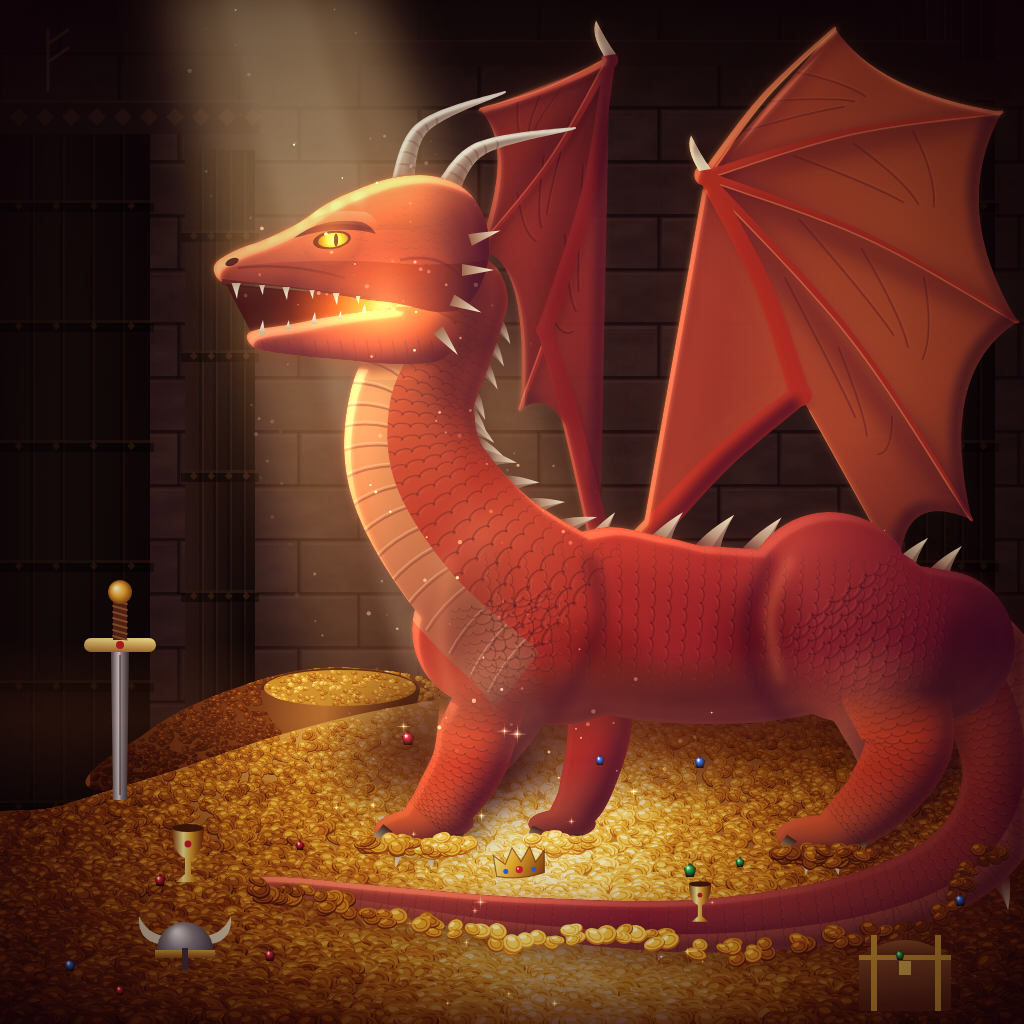
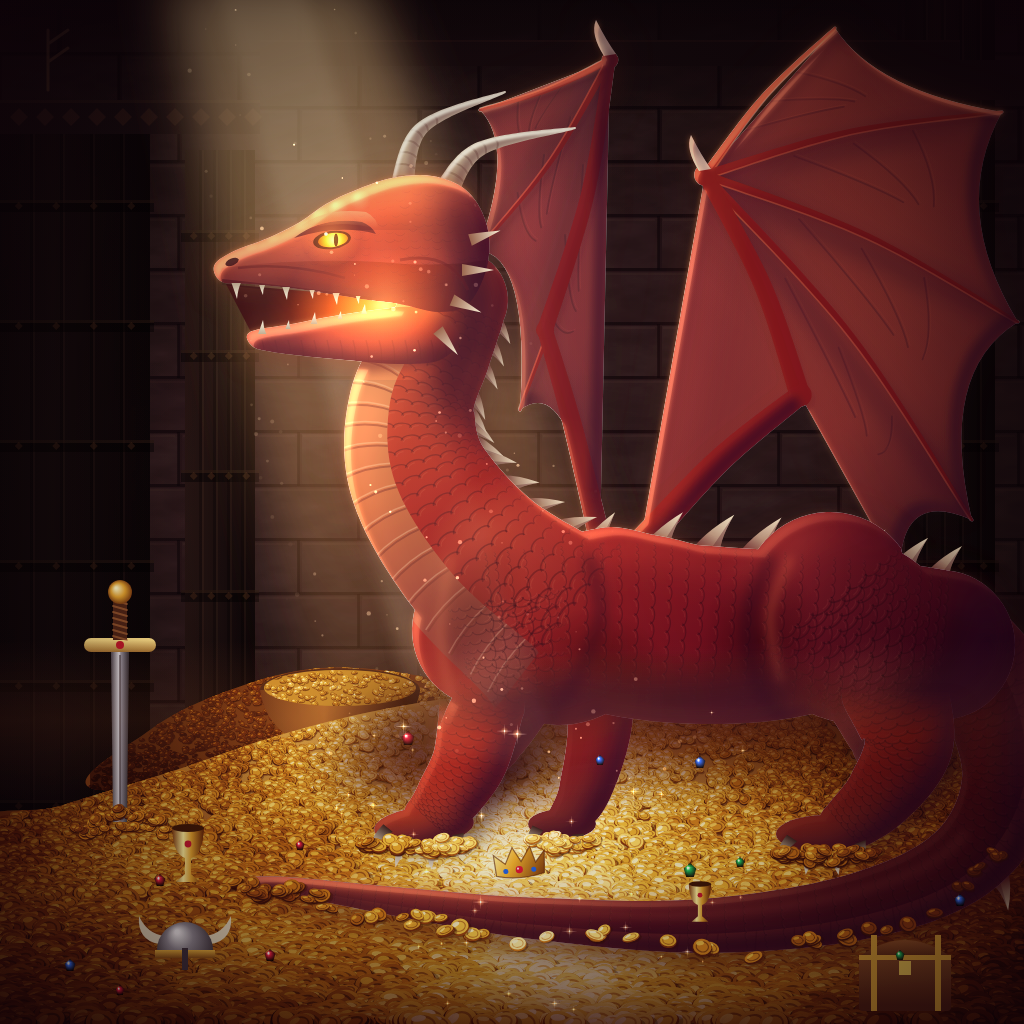
wip: cena do dragão em HTML (em andamento)
Claude-Session: https://claude.ai/code/session_01EnULY6JuMiMkHnXp4jznFA

diff --git a/examples/dragao_html/index.html b/examples/dragao_html/index.html
@@ -108,8 +108,8 @@ function tubePath(g, T) {
 
 /* ---------- paleta ---------- */
 const RED = {
-  deep: [44, 8, 36], shadow: [92, 16, 46], mid: [150, 28, 34], base: [190, 44, 32],
-  light: [228, 86, 48], hi: [255, 150, 90]
+  deep: [38, 6, 34], shadow: [84, 12, 44], mid: [134, 20, 34], base: [172, 30, 30],
+  light: [212, 62, 42], hi: [255, 140, 90]
 };
 const GOLD = [[0, [58, 20, 14]], [0.25, [128, 50, 18]], [0.5, [206, 120, 28]], [0.72, [240, 186, 56]], [0.9, [255, 226, 120]], [1, [255, 248, 210]]];
 const LIGHT_DIR = [-0.62, -0.78]; // luz vem de cima à esquerda
@@ -134,6 +134,14 @@ function shadeVolume(L, o = {}) {
   if (!mask) { mask = layer(); mask.getContext('2d').drawImage(L, 0, 0); }
   // primeiro recorta tudo que vazou da silhueta (screen/multiply pintam fora)
   g.save(); g.globalCompositeOperation = 'destination-in'; g.drawImage(mask, 0, 0); g.restore();
+  // queda de luz: longe do feixe tudo afunda para vinho/roxo
+  g.save(); g.globalCompositeOperation = 'multiply';
+  const fo = o.falloff || [330, 280, 220, 820];
+  const fg = g.createRadialGradient(fo[0], fo[1], fo[2], fo[0], fo[1], fo[3]);
+  fg.addColorStop(0, 'rgb(255,255,255)'); fg.addColorStop(0.5, 'rgb(205,170,190)'); fg.addColorStop(1, 'rgb(120,80,130)');
+  g.fillStyle = fg; g.fillRect(0, 0, S, S);
+  g.globalCompositeOperation = 'destination-in'; g.drawImage(mask, 0, 0);
+  g.restore();
   g.save(); g.globalCompositeOperation = 'source-atop';
   // sombra própria: borda oposta à luz, larga e suave
   const sh = edge(mask, -(o.shadowW || 34), -(o.shadowW || 34) * 0.8);
@@ -314,9 +322,10 @@ function backPilePath(g) {
 }
 
 function coin(g, x, y, r, L, rot) {
-  const c = ramp(GOLD, L), d = ramp(GOLD, L - 0.32), h = ramp(GOLD, L + 0.22);
+  const c = ramp(GOLD, L), d = ramp(GOLD, L - 0.45), h = ramp(GOLD, L + 0.25);
   const ry = r * lerp(0.45, 0.9, rnd());
   g.save(); g.translate(x, y); g.rotate(rot);
+  g.fillStyle = 'rgba(50,14,10,0.35)'; g.beginPath(); g.ellipse(r * 0.15, r * 0.35, r * 1.05, ry * 0.9, 0, 0, Math.PI * 2); g.fill();
   g.fillStyle = rgb(d); g.beginPath(); g.ellipse(0, r * 0.12, r, ry, 0, 0, Math.PI * 2); g.fill();
   g.fillStyle = rgb(c); g.beginPath(); g.ellipse(0, 0, r * 0.94, ry * 0.9, 0, 0, Math.PI * 2); g.fill();
   g.strokeStyle = rgb(d, 0.6); g.lineWidth = Math.max(0.6, r * 0.12);
@@ -347,8 +356,9 @@ function goldLight(topY) {
   return (x, y) => {
     const b = beamLight(x, y);
     const depth = clamp((y - topY) / 340, 0, 1);
-    const side = clamp(Math.abs(x - 500) / 520, 0, 1);
-    return clamp(0.56 + 0.44 * b - 0.18 * depth - 0.26 * side * side, 0, 1);
+    const side = x > 520 ? clamp((x - 520) / 500, 0, 1) : clamp((520 - x) / 700, 0, 1);
+    const wave = 0.08 * Math.sin(x * 0.02 + y * 0.013) * Math.sin(y * 0.031); // ondulação do monte
+    return clamp(0.6 + 0.42 * b - 0.16 * depth - 0.26 * side * side + wave, 0, 1);
   };
 }
 
@@ -363,7 +373,7 @@ function drawGoldMound(g) {
   gr.addColorStop(0, 'rgba(255,220,120,0.7)'); gr.addColorStop(1, 'rgba(255,200,100,0)');
   g.fillStyle = gr; g.fillRect(0, 600, S, 424);
   seed = 99;
-  scatterCoins(g, moundPath, 9000, (x, y) => lerp(4, 13, clamp((y - 680) / 344, 0, 1)), goldLight(690), [0, 680, S, S]);
+  scatterCoins(g, moundPath, 11000, (x, y) => lerp(4, 15, Math.pow(clamp((y - 680) / 344, 0, 1), 1.3)), goldLight(690), [0, 680, S, S]);
   // sombreamento da curvatura do monte
   g.globalCompositeOperation = 'multiply';
   gr = g.createLinearGradient(0, 0, S, 0);
@@ -568,7 +578,7 @@ function drawDragonBody(g) {
   for (let i = NECK.C.length - 1; i >= 0; i--) { const c = NECK.C[i], [nx, ny] = NECK.N[i], w = NECK.W[i]; d.lineTo(c[0] - nx * w * 1.1, c[1] - ny * w * 1.1); }
   d.closePath(); d.clip();
   gr = d.createLinearGradient(360, 300, 520, 640);
-  gr.addColorStop(0, '#f0a868'); gr.addColorStop(0.5, '#d9784a'); gr.addColorStop(1, '#8a3a34');
+  gr.addColorStop(0, '#e89660'); gr.addColorStop(0.5, '#c86440'); gr.addColorStop(1, '#7a2a32');
   d.fillStyle = gr; d.fillRect(0, 0, S, S);
   // placas ventrais
   for (let i = 4; i < NECK.C.length - 4; i += 4) {
@@ -619,7 +629,7 @@ function drawDragonBody(g) {
   d.save(); d.globalCompositeOperation = 'source-atop';
   d.beginPath(); jawPath(d);
   gr = d.createLinearGradient(0, 306, 0, 366);
-  gr.addColorStop(0, '#e2683e'); gr.addColorStop(0.45, '#b23a2c'); gr.addColorStop(1, '#5a1030');
+  gr.addColorStop(0, '#d65a38'); gr.addColorStop(0.45, '#a02a2a'); gr.addColorStop(1, '#4a0c2c');
   d.fillStyle = gr; d.fill();
   d.save(); d.clip();
   for (let x = 262; x < 450; x += 13) { // placas sob o queixo
@@ -629,7 +639,7 @@ function drawDragonBody(g) {
   d.restore();
   d.beginPath(); headPath(d);
   gr = d.createLinearGradient(330, 176, 350, 300);
-  gr.addColorStop(0, '#f38a50'); gr.addColorStop(0.4, '#d9512f'); gr.addColorStop(0.8, '#a42a2c'); gr.addColorStop(1, '#6a1430');
+  gr.addColorStop(0, '#e86e44'); gr.addColorStop(0.4, '#c63a2a'); gr.addColorStop(0.8, '#94202c'); gr.addColorStop(1, '#5a1030');
   d.fillStyle = gr; d.fill();
   d.save(); d.clip();
   // sombra para a nuca (fora da luz) e luz no focinho
@@ -673,7 +683,7 @@ function drawDragonBody(g) {
   crease([[430, 340], [350, 345], [275, 340]], 10, 'rgba(70,10,36,0.4)', 8);               // sob a mandíbula
   crease([[440, 330], [470, 300], [480, 262]], 10, 'rgba(50,8,32,0.4)', 6);               // músculo da mandíbula
   d.restore();
-  shadeVolume(L, { mask, shadowW: 46, shadowA: 0.8, rimW: 7, rimA: 0.5, rimFocus: [360, 300, 560], litA: 0.3 });
+  shadeVolume(L, { mask, shadowW: 46, shadowA: 0.95, rimW: 7, rimA: 0.5, rimFocus: [360, 300, 560], litA: 0.3 });
   // cabeça: detalhes
   d.save(); d.globalCompositeOperation = 'source-atop';
   // sobrancelha saliente e sulco do focinho
@@ -839,6 +849,13 @@ function drawTail(g) {
   }
   d.restore();
   scalesAlong(d, TAIL, { cols: 10, step: 2 });
+  const band = (k, col, wdt, blur, from) => {
+    d.filter = `blur(${blur}px)`; d.strokeStyle = col; d.lineWidth = wdt; d.lineCap = 'round'; d.beginPath();
+    for (let i = from; i < TAIL.C.length; i++) { const c = TAIL.C[i], [nx, ny] = TAIL.N[i], w = TAIL.W[i]; const px = c[0] + nx * w * k, py = c[1] + ny * w * k; i > from ? d.lineTo(px, py) : d.moveTo(px, py); }
+    d.stroke(); d.filter = 'none';
+  };
+  band(0.45, 'rgba(255,140,90,0.35)', 8, 4, 50);
+  band(-0.7, 'rgba(50,8,32,0.5)', 10, 5, 40);
   d.restore();
   shadeVolume(L, { mask, shadowW: 22, shadowA: 0.6, shadowBlur: 12, rimW: 5, rimA: 0.45, rimFocus: [360, 700, 520] });
   // a base da cauda se funde ao corpo
@@ -872,8 +889,8 @@ function drawSword(g) {
   // lâmina fincada (some no ouro)
   let gr = g.createLinearGradient(112, 0, 128, 0);
   gr.addColorStop(0, '#5a5560'); gr.addColorStop(0.45, '#e8e4ea'); gr.addColorStop(0.55, '#9a96a4'); gr.addColorStop(1, '#3a3640');
-  g.fillStyle = gr; g.beginPath(); g.moveTo(111, 650); g.lineTo(129, 650); g.lineTo(127, 800); g.lineTo(113, 800); g.fill();
-  g.fillStyle = 'rgba(40,30,40,0.5)'; g.fillRect(119, 655, 2, 140);
+  g.fillStyle = gr; g.beginPath(); g.moveTo(111, 650); g.lineTo(129, 650); g.lineTo(127, 822); g.lineTo(113, 822); g.fill();
+  g.fillStyle = 'rgba(40,30,40,0.5)'; g.fillRect(119, 655, 2, 160);
   // guarda
   gr = g.createLinearGradient(0, 640, 0, 656);
   gr.addColorStop(0, '#ffe08a'); gr.addColorStop(1, '#8a5018');
@@ -887,6 +904,13 @@ function drawSword(g) {
   g.fillStyle = gr; g.beginPath(); g.arc(120, 592, 12, 0, Math.PI * 2); g.fill();
   g.fillStyle = '#c0182a'; g.beginPath(); g.arc(120, 645, 4, 0, Math.PI * 2); g.fill();
   g.restore();
+  // moedas amontoadas em volta da lâmina fincada
+  seed = 808;
+  for (let i = 0; i < 70; i++) {
+    const x = 120 + rr(-46, 46), k = 1 - Math.pow((x - 120) / 46, 2);
+    const y = 812 + rr(-10, 4) * k + rr(0, 18) + (1 - k) * 12;
+    coin(g, x, y, rr(4, 7), clamp(goldLight(690)(x, y) + rr(-0.15, 0.1), 0, 1), rr(-0.5, 0.5));
+  }
 }
 
 function drawCrown(g, x, y, s, rot) {
@@ -967,7 +991,7 @@ function dragonShadowOnGold(g) {
 function burying(g) {
   seed = 777;
   const L = goldLight(690);
-  const put = (x, y) => coin(g, x, y, lerp(5, 11, clamp((y - 680) / 344, 0, 1)) * rr(0.8, 1.2), L(x, y) - 0.05 + rr(-0.12, 0.1), rr(-0.5, 0.5));
+  const put = (x, y) => coin(g, x, y, lerp(4, 10, clamp((y - 680) / 344, 0, 1)) * rr(0.8, 1.2), L(x, y) - 0.05 + rr(-0.12, 0.1), rr(-0.5, 0.5));
   // dedos cravados: moedas sobre a base das garras
   for (const [cx, cy, rx] of [[420, 840, 58], [562, 836, 34], [826, 850, 50]]) {
     for (let i = 0; i < rx * 1.6; i++) {
@@ -980,7 +1004,7 @@ function burying(g) {
   for (let i = Math.round(M * 0.3); i < M; i++) {
     const c = T.C[i], [nx, ny] = T.N[i], w = T.W[i];
     const sink = 0.5 + 0.5 * Math.sin(i * 0.21) * Math.sin(i * 0.07 + 1);
-    const nCoins = rnd() < 0.35 ? 0 : 1 + Math.round(sink * 3 * rnd());
+    const nCoins = rnd() < 0.55 ? 0 : 1 + Math.round(sink * 2 * rnd());
     for (let k = 0; k < nCoins; k++) {
       const d = w * (1 - sink * 0.9) + rr(-2, 10);
       put(c[0] - nx * d + rr(-6, 6), c[1] - ny * d + rr(-2, 6));
@@ -1014,14 +1038,14 @@ function render() {
   // asa de trás (mais escura, vista por trás)
   drawWing(g, {
     S: [600, 540], E: [545, 330], W: [610, 60], tips: [[480, 110], [478, 250], [520, 410]], attach: [590, 520],
-    scallop: 0.28, reach: 420, memIn: [90, 18, 34], memOut: [130, 34, 40], alpha: 0.95, glow: [200, 60, 50], glowA: 0.25,
+    scallop: 0.28, reach: 420, memIn: [70, 12, 32], memOut: [110, 24, 38], alpha: 0.95, glow: [200, 60, 50], glowA: 0.25,
     vein: [40, 6, 20], fold: [40, 6, 24], bone: 7, boneC: [120, 26, 34], boneHi: [220, 90, 70], seed: 3, rimA: 0.35
   });
   // asa da frente (grande, à direita)
   drawWing(g, {
     S: [640, 545], E: [800, 395], W: [705, 175], tips: [[835, 28], [1002, 112], [1018, 322], [972, 520]], attach: [900, 575],
-    scallop: 0.2, reach: 560, memIn: [120, 24, 34], memOut: [196, 70, 46], alpha: 0.96, glow: [255, 120, 60], glowA: 0.3,
-    vein: [70, 10, 30], fold: [70, 10, 34], bone: 9, boneC: [170, 40, 34], boneHi: [255, 140, 90], seed: 9, rimA: 0.5
+    scallop: 0.2, reach: 560, memIn: [92, 14, 34], memOut: [168, 46, 42], alpha: 0.97, glow: [240, 100, 56], glowA: 0.28,
+    vein: [70, 10, 30], fold: [70, 10, 34], bone: 9, boneC: [150, 30, 34], boneHi: [240, 120, 80], seed: 9, rimA: 0.5
   });
   drawGoldMound(g);
   drawSword(g);
@@ -1072,9 +1096,9 @@ function render() {
     [160, 880, 6, '#e02040'], [70, 965, 6, '#3070ff'], [120, 990, 5, '#e02040'], [270, 955, 6, '#e02040'], [600, 760, 5, '#3070ff'], [960, 900, 6, '#3070ff'], [900, 955, 5, '#20c060']]) gem(g, x, y, r, c);
   // brilhos em estrela fixos
   seed = 31;
-  for (let i = 0; i < 46; i++) {
+  for (let i = 0; i < 90; i++) {
     const x = rr(20, 1000), y = rr(700, 1010); const L = goldLight(690)(x, y);
-    if (L > 0.55) sparkle(g, x, y, rr(1.5, 4) * L, 0.8);
+    if (L > 0.6) sparkle(g, x, y, rr(1.5, 4) * L, 0.8);
   }
   // feixe na frente (névoa) + névoa quente baixa
   drawBeam(g, 0.35);
@@ -1087,7 +1111,7 @@ function render() {
   gr.addColorStop(0, 'rgba(0,0,0,0)'); gr.addColorStop(1, 'rgba(10,2,8,0.75)');
   g.fillStyle = gr; g.fillRect(0, 0, S, S);
   // gradação de cor quente
-  g.save(); g.globalCompositeOperation = 'soft-light'; g.fillStyle = 'rgba(255,150,80,0.18)'; g.fillRect(0, 0, S, S); g.restore();
+  g.save(); g.globalCompositeOperation = 'soft-light'; g.fillStyle = 'rgba(255,140,80,0.1)'; g.fillRect(0, 0, S, S); g.restore();
 }
 
 render();
